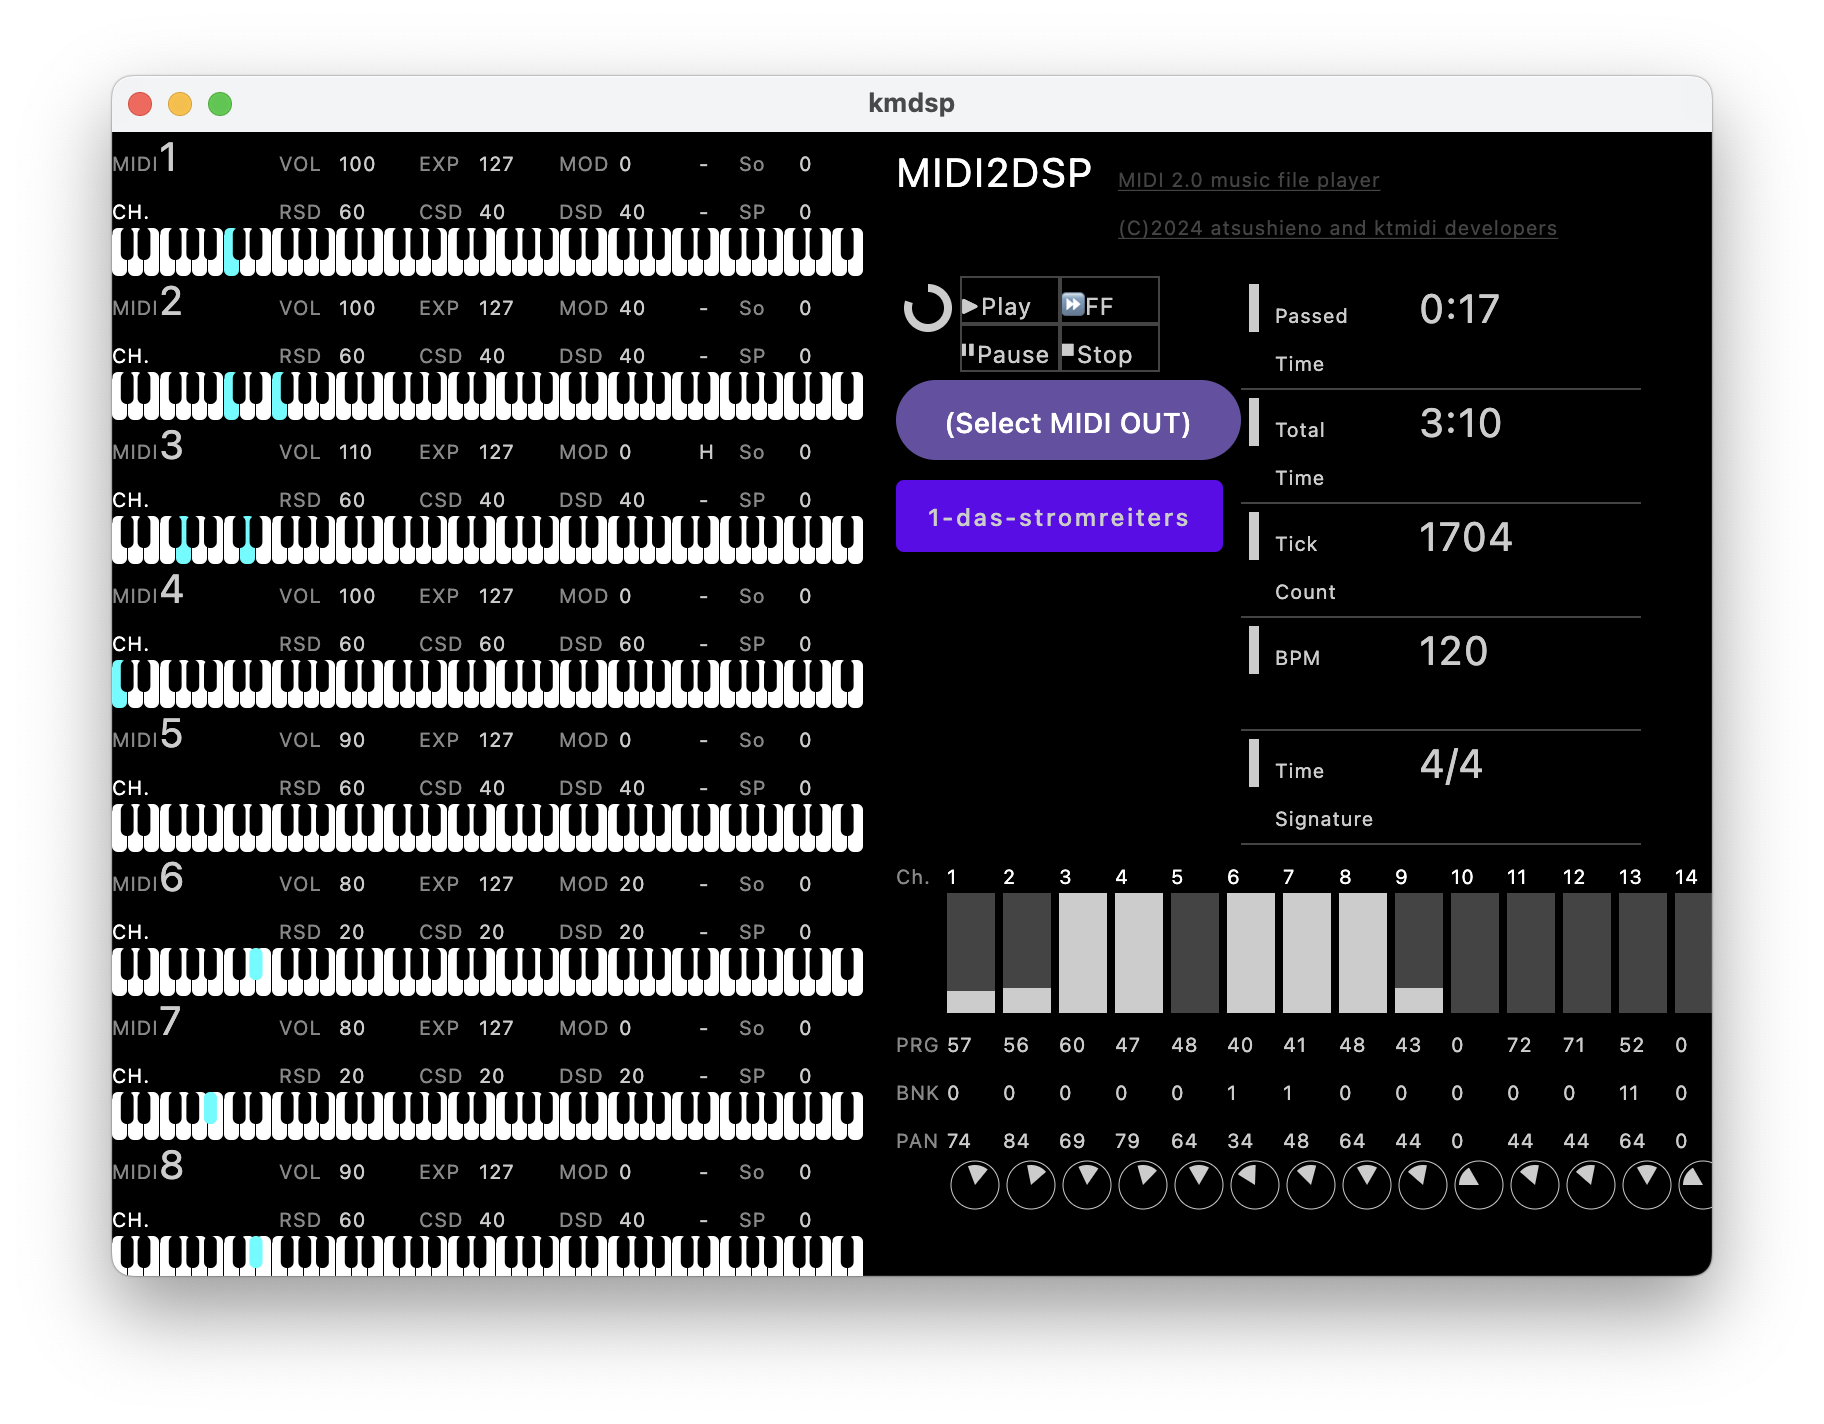
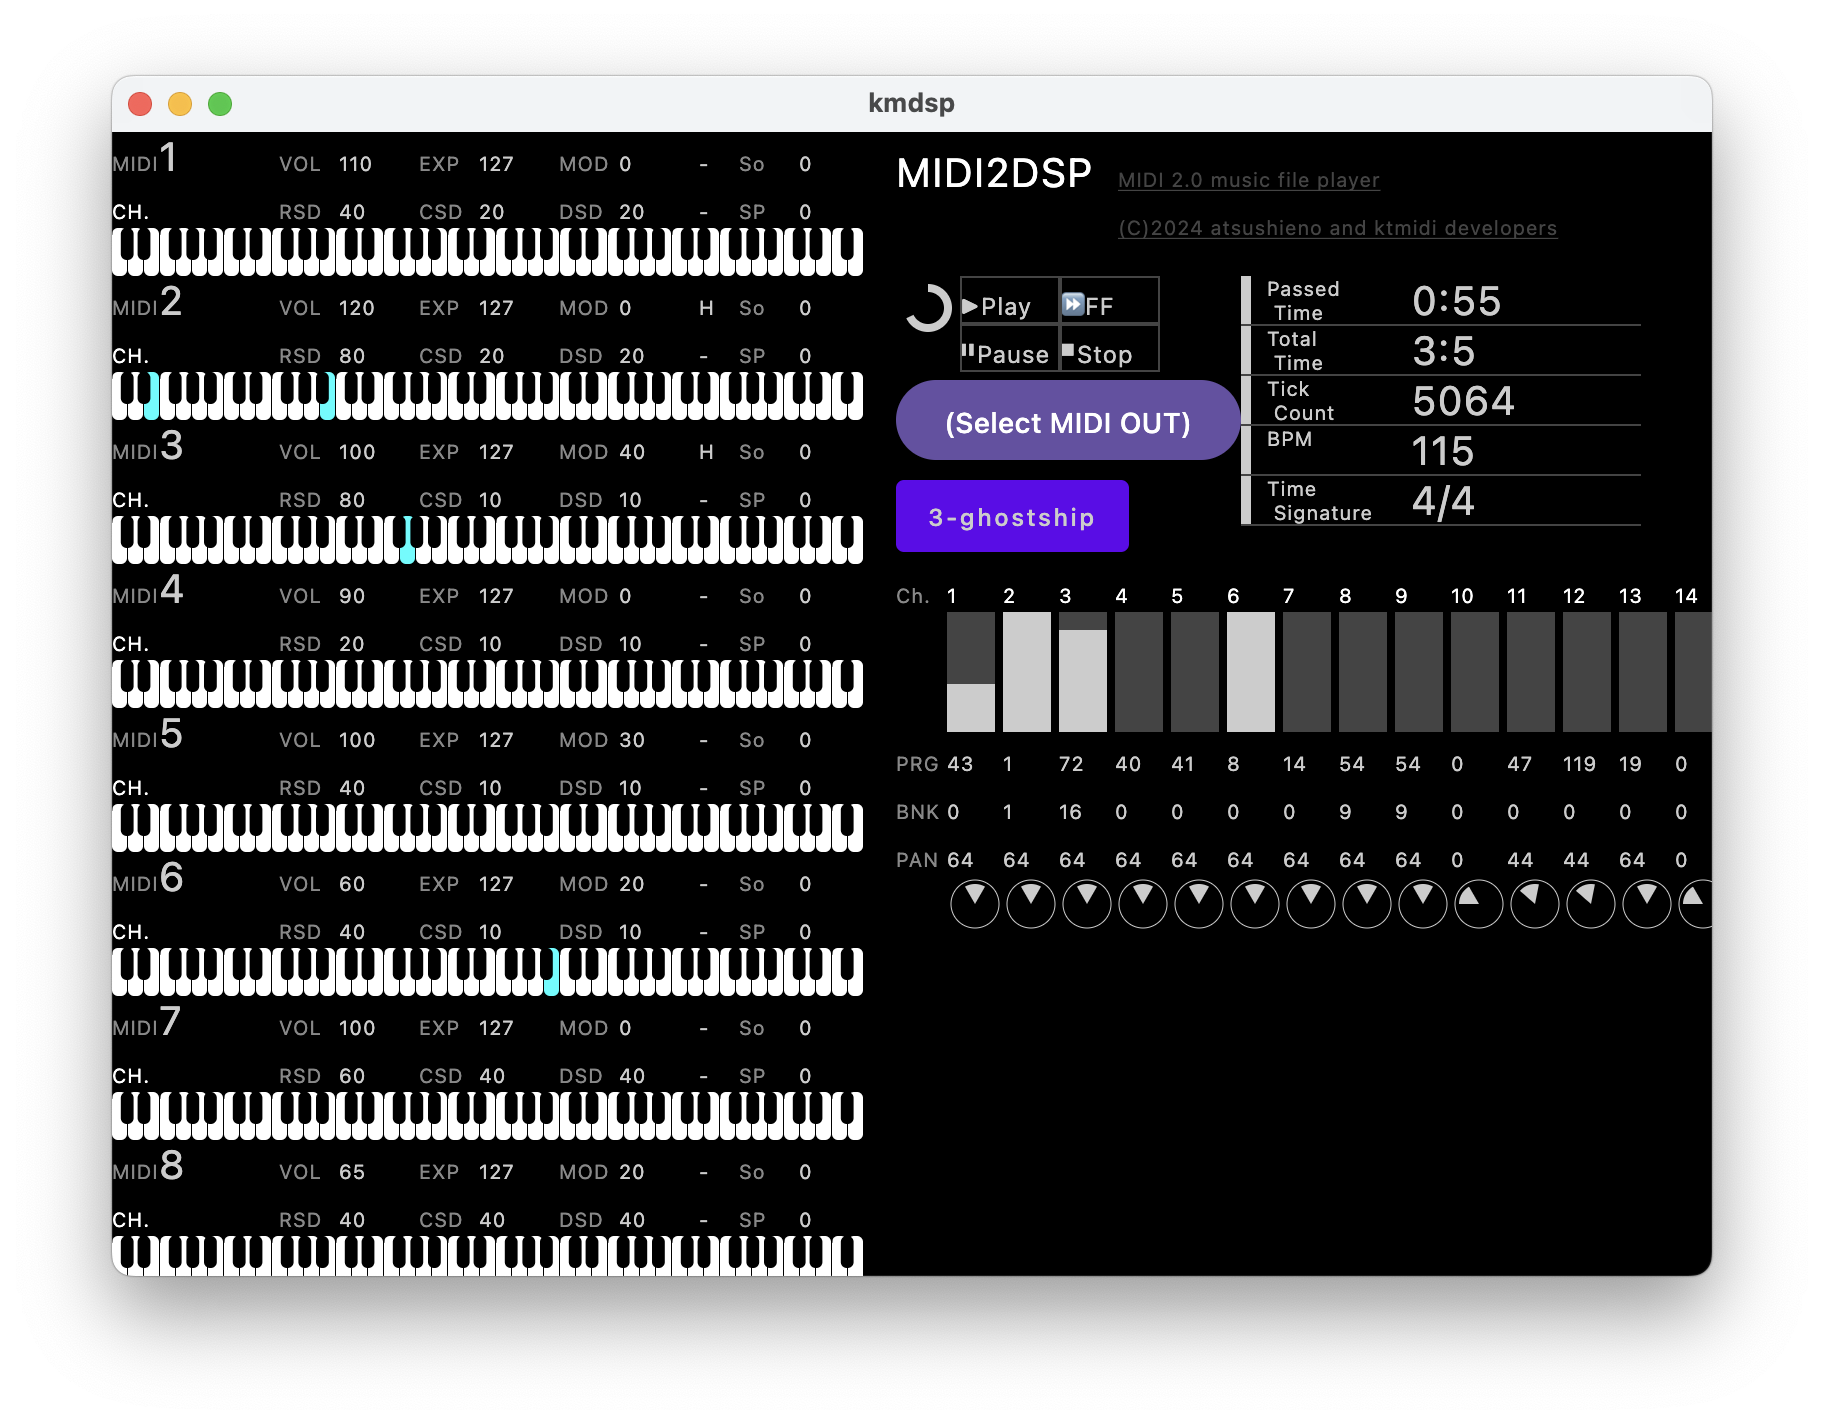
implement circular playback indicator.

diff --git a/kmdsp/src/commonMain/kotlin/dev/atsushieno/kmdsp/App.kt b/kmdsp/src/commonMain/kotlin/dev/atsushieno/kmdsp/App.kt
@@ -1,7 +1,6 @@
 package dev.atsushieno.kmdsp
 
-import androidx.compose.animation.core.Animatable
-import androidx.compose.animation.core.TweenSpec
+import androidx.compose.animation.core.*
 import androidx.compose.foundation.Canvas
 import androidx.compose.foundation.background
 import androidx.compose.foundation.border
@@ -184,9 +183,16 @@ fun TitleBar() {
 
 @Composable
 fun PlayerControlPanel() {
+    val infiniteTransition = rememberInfiniteTransition(label = "infinite")
+    val playerState by remember { AppModel.midiPlayerState }
+    val progress by infiniteTransition.animateFloat(0f, 1f,
+        InfiniteRepeatableSpec(TweenSpec(AppModel.animatedTweenBaseMilliseconds, 0, LinearEasing)))
     Column {
         Row {
-            CircularProgressIndicator(0.8f, color = LocalKmdspThemeStatusValueColor.current, modifier = Modifier.size(32.dp).padding(4.dp))
+            CircularProgressIndicator(if (playerState == PlayerState.PLAYING) progress else 0f,
+                color = LocalKmdspThemeStatusValueColor.current,
+                modifier = Modifier.size(32.dp).padding(4.dp)
+            )
             LazyVerticalGrid(GridCells.Fixed(2), modifier = Modifier.width(100.dp)) {
                 items(4) {
                     when(it) {
@@ -339,9 +345,7 @@ fun KeyOnMeter(channel: Int) {
         // it should not trigger the effect if it is not at playing state (e.g. at initial state)
         if (AppModel.midiPlayer.value.state == PlayerState.PLAYING)
             meterHeight.snapTo(1f)
-        // the decay speed depends on tempo.
-        val decayMillis = 1500 * 500000 / AppModel.musicStatus.value.tempo
-        meterHeight.animateTo(0f, initialVelocity = 1f, animationSpec = TweenSpec(decayMillis))
+        meterHeight.animateTo(0f, initialVelocity = 1f, animationSpec = TweenSpec(AppModel.animatedTweenBaseMilliseconds))
     }
     val bgColor = LocalKmdspThemeStatusInactiveColor.current
     val fgColor = LocalKmdspThemeStatusValueColor.current

diff --git a/kmdsp/src/commonMain/kotlin/dev/atsushieno/kmdsp/AppModel.kt b/kmdsp/src/commonMain/kotlin/dev/atsushieno/kmdsp/AppModel.kt
@@ -48,14 +48,17 @@ object AppModel {
     fun resetUiStates() {
         noteOnStates.forEach { (0 until it.size).forEach { idx -> it[idx] = 0 } }
         keyOnMeterStates.forEach { it.value = 0 }
+        midiPlayerState.value = midiPlayer.value.state
     }
 
     fun play() {
         midiPlayer.value.play()
+        midiPlayerState.value = midiPlayer.value.state
     }
 
     fun pause() {
         midiPlayer.value.pause()
+        midiPlayerState.value = midiPlayer.value.state
     }
 
     fun stop() {
@@ -78,6 +81,7 @@ object AppModel {
     var midiAccess: MutableState<MidiAccess> = mutableStateOf(EmptyMidiAccess())
     var midiOutput = mutableStateOf(EmptyMidiAccess.output)
     var midiPlayer: MutableState<MidiPlayer> = mutableStateOf(Midi1Player(Midi1Music(), midiOutput.value))
+    var midiPlayerState = mutableStateOf(PlayerState.STOPPED)
 
     val noteOnStates = List(256) { List(128) { 0L }.toMutableStateList() }
     val keyOnMeterStates = List(256) { mutableStateOf(0) }
@@ -88,6 +92,11 @@ object AppModel {
 
     val midi1Machine = Midi1MachineState()
     val midi2Machine = Midi2MachineState()
+
+    // the decay/rotation speed depends on tempo.
+    val animatedTweenBaseMilliseconds
+        get() = 1500 * 500000 / musicStatus.value.tempo
+
 
     var lastError: Exception? = null
 

diff --git a/README.md b/README.md
@@ -24,7 +24,6 @@ No ALSA UMP support in ktmidi yet (investigating why it's not working).
 
 These are not ported from XMDSP yet:
 
-- circular progress bar
 - hot reloading of the playing song
 
 # Licenses
